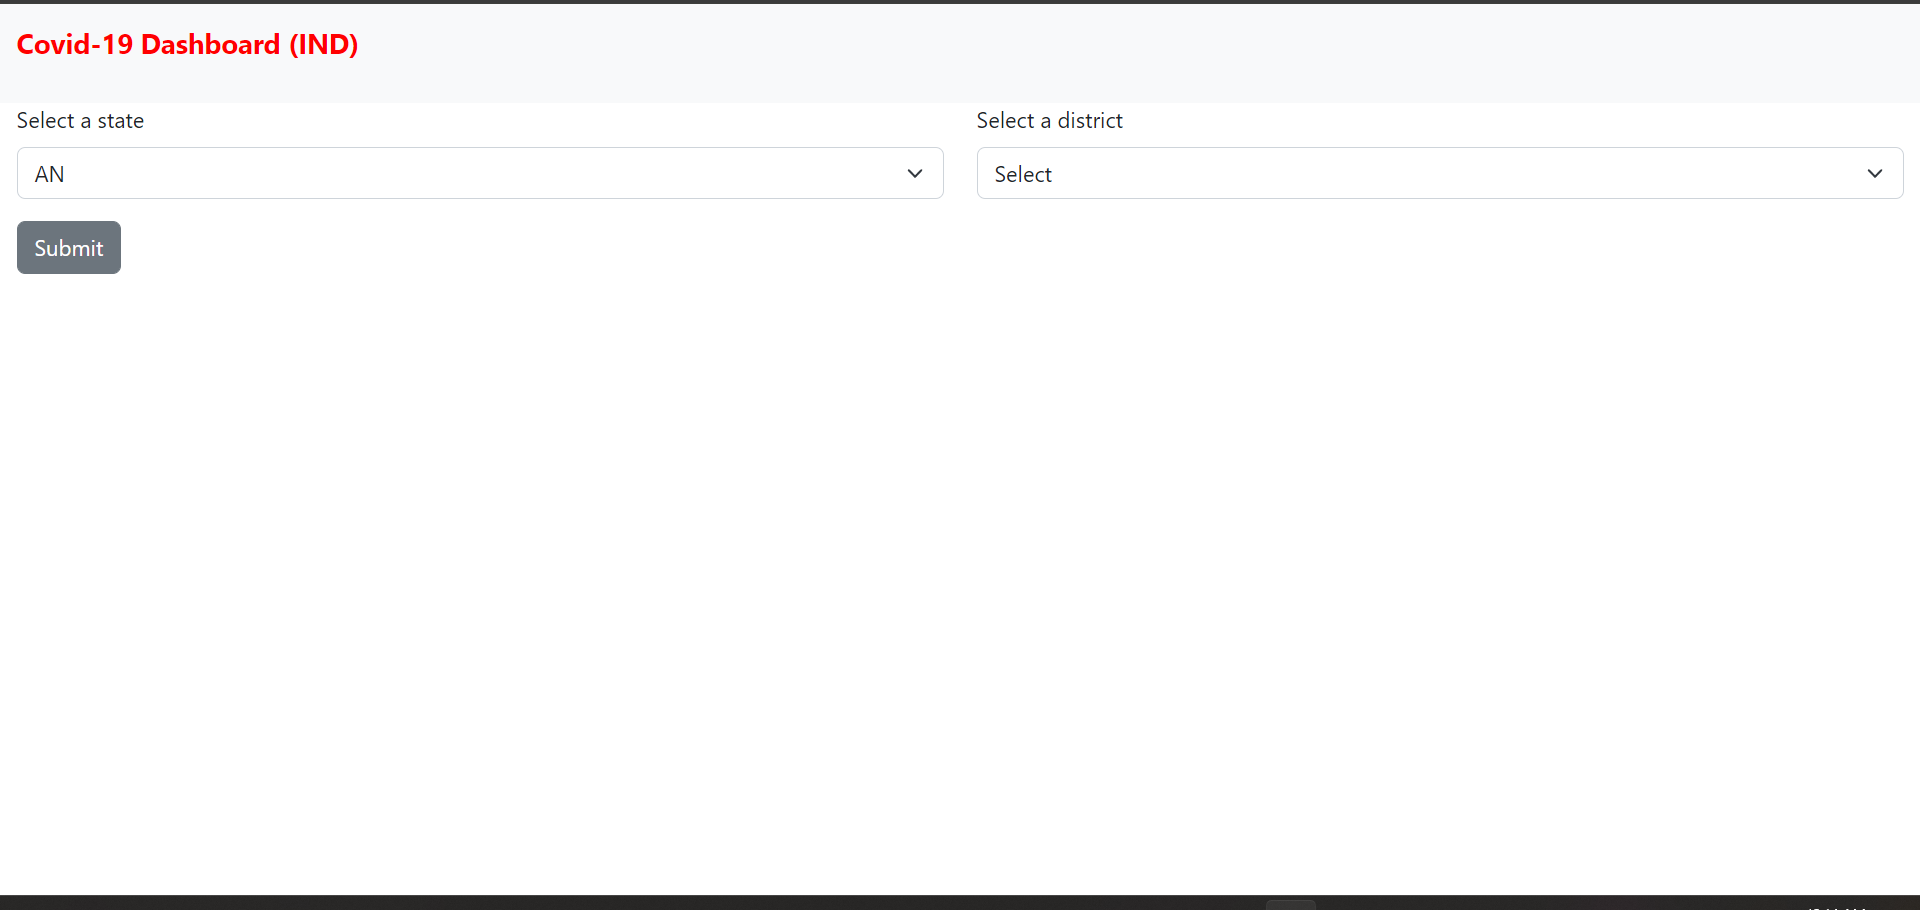
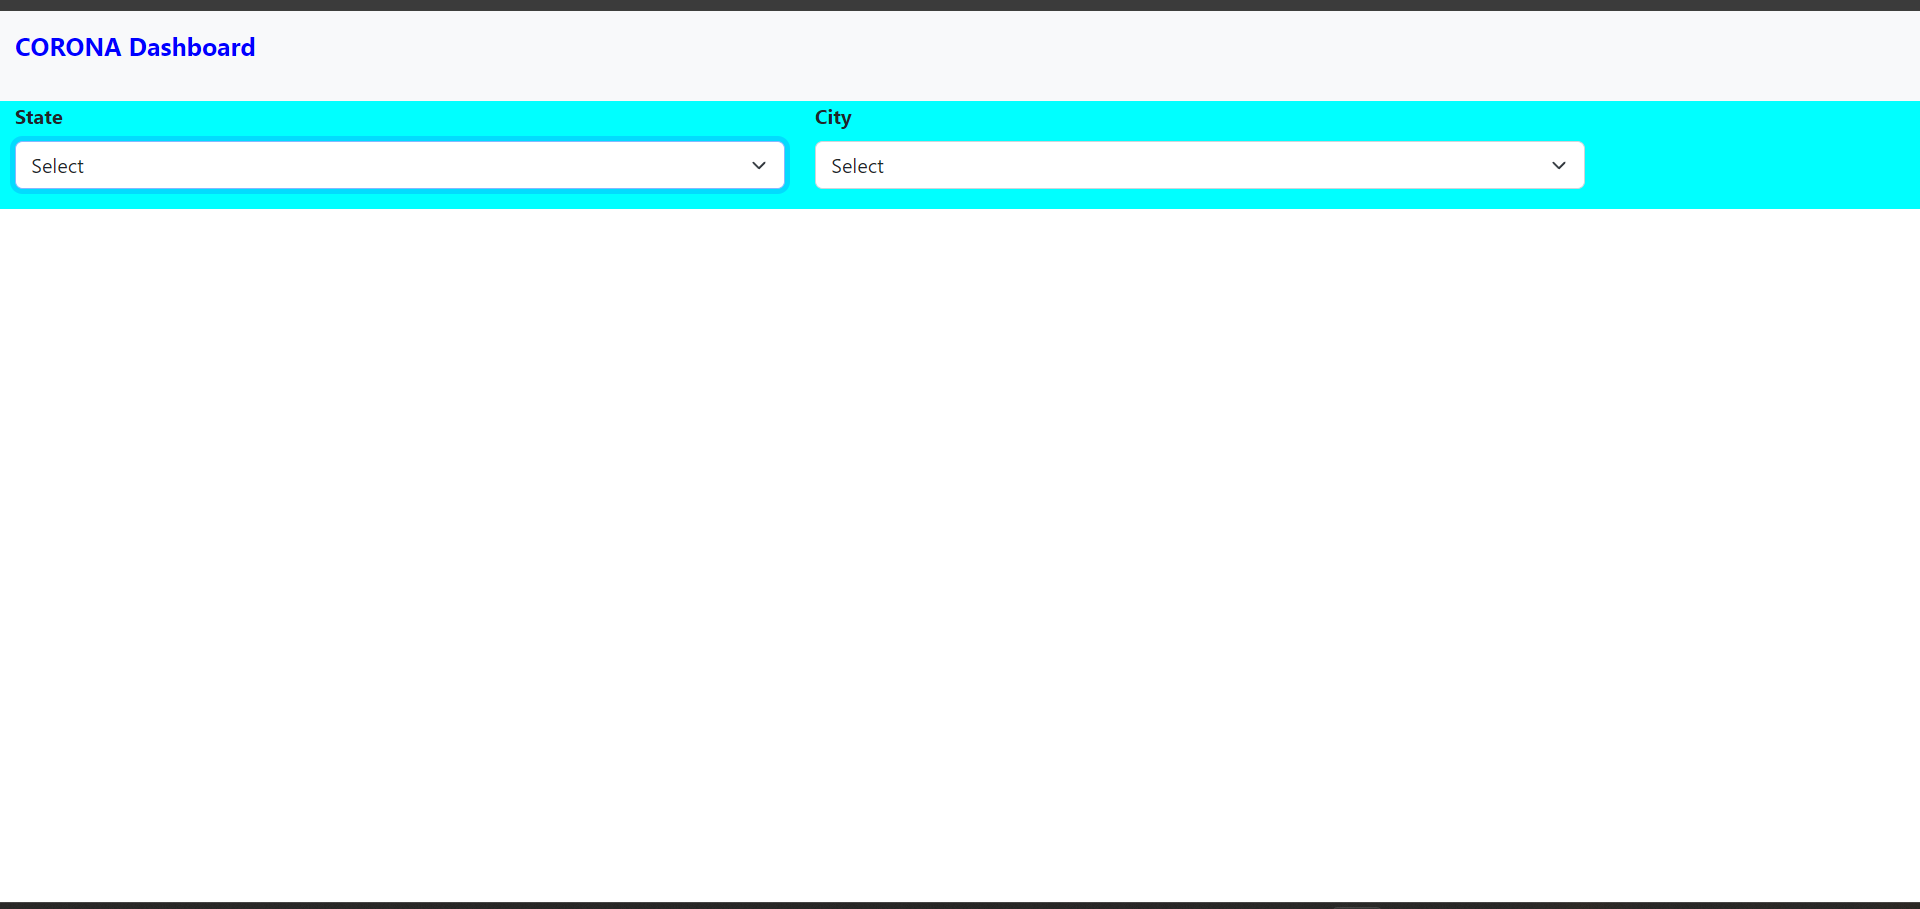
Update Screenshots and readme file

Changed region(s): [[0.0, 0.0924, 1.0, 0.308], [0.0, 0.0, 1.0, 0.0616], [0.0, 0.9857, 1.0, 1.0]]

diff --git a/README.md b/README.md
@@ -1,10 +1,19 @@
 # Covid-19-dashboard
 Covid-19 dashboard created using React + TS.
 
-### API : https://data.covid19india.org/v4/min/data.min.json
+### Api Used : https://data.covid19india.org/v4/min/data.min.json
+
+## How to run
+1. Clone the repo
+2. Run `npm install`
+3. Run `npm start`
+4. Open `http://localhost:3000/` in your browser
+5. Check Covid 19 data for your state
 
 ## Screenshots
 ![screenshot1](doc/Screenshot1.png)
 ![screenshot2](doc/Screenshot2.png)
 ![screenshot3](doc/Screenshot3.png)
 ![screenshot4](doc/Screenshot4.png)
+![screenshot5](doc/Screenshot5.png)
+![screenshot6](doc/Screenshot6.png)
